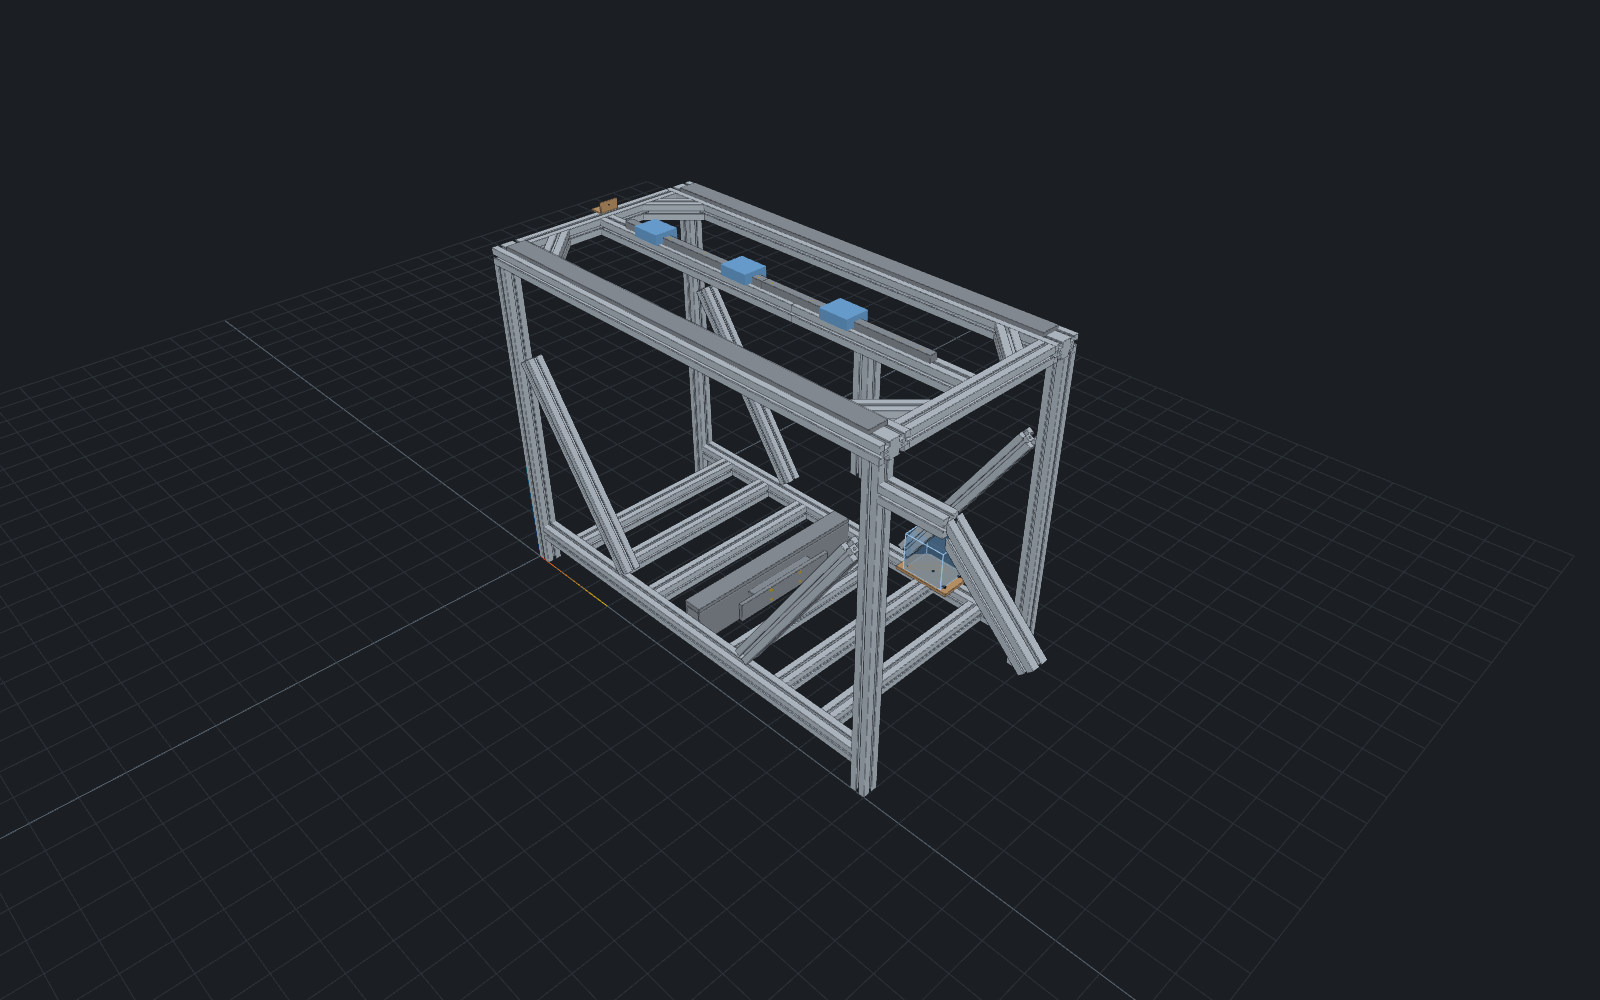
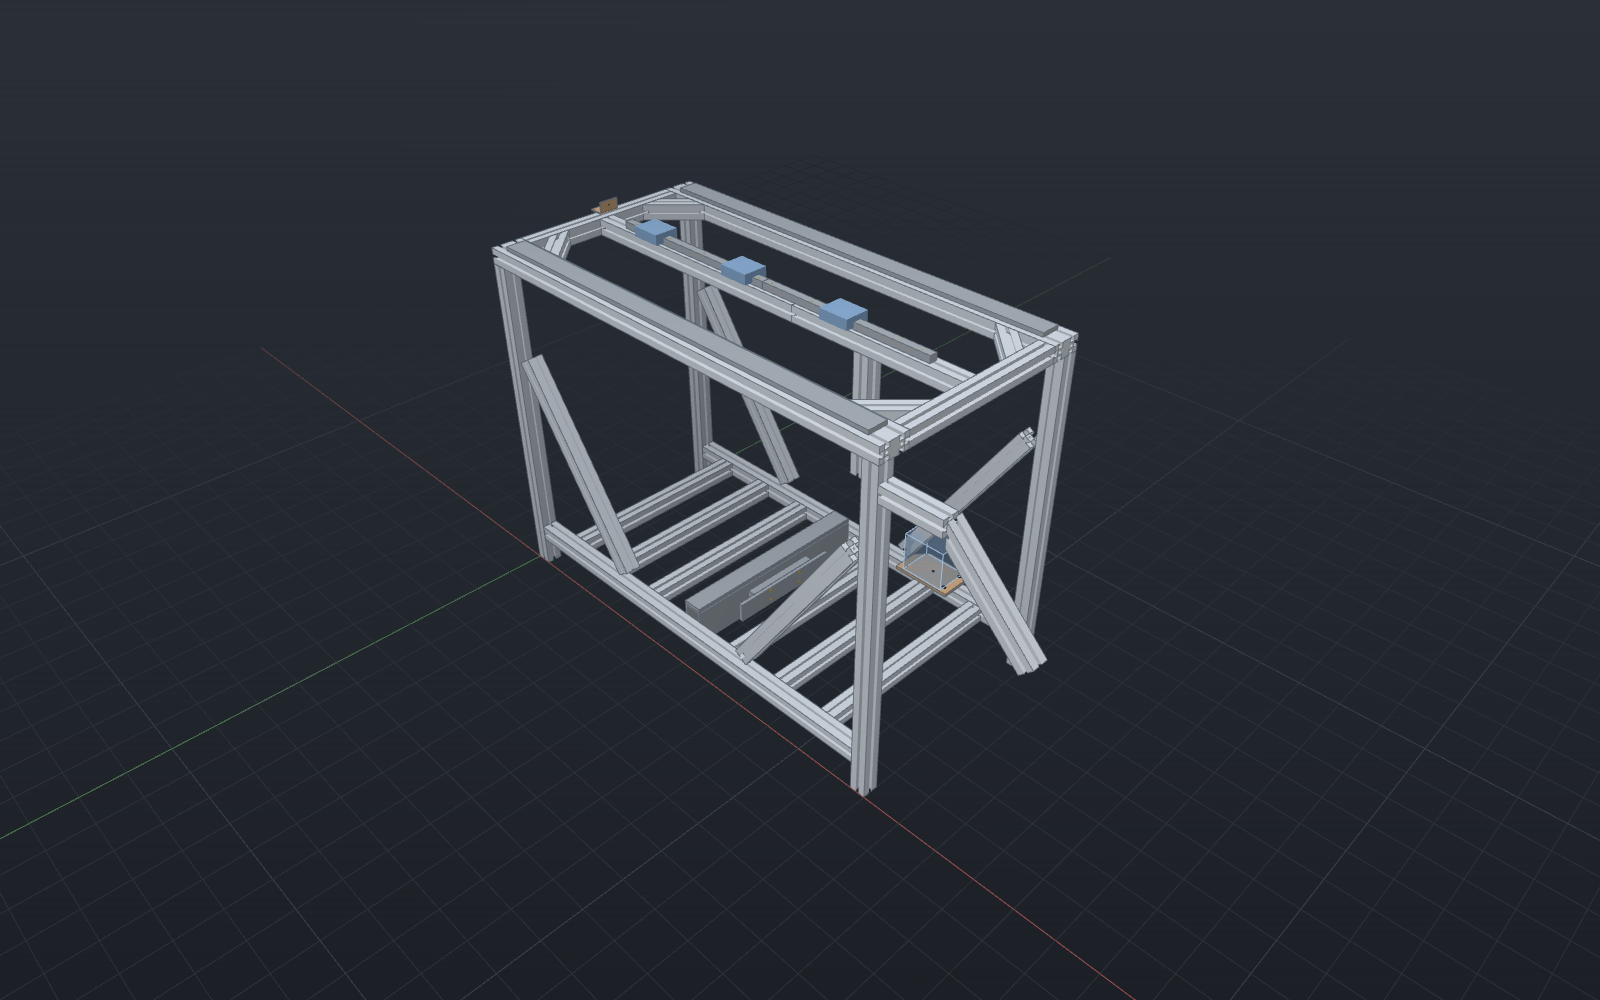
UX S3.13: measurements, the README's picture, screenshots and S3's decisions
s3-decisions.md records the 3D view's decisions with what was measured: frame time before and
after on the cart and a 1,000-bar lattice, on SwiftShader and an M1 Max; the hover pick's cost;
the GLB unchanged byte for byte; the bundle's growth. contracts.md lists S3's contract changes,
with the two ViewTheme fields C's spec replaces and the cross-edits in S4's files.
docs/images/cart-iso.png is rendered again by alukit snapshot; eight before and after
screenshots under docs/ux/img/s3.

Changed region(s): [[0.3125, 0.186, 0.6875, 0.806]]

diff --git a/docs/ux/s3-decisions.md b/docs/ux/s3-decisions.md
@@ -4,6 +4,24 @@
 and C's [rendering spec](visual-design.md#5-the-3d-view-rendering-spec). Labels as in the plan:
 **measured** (run), **read** (from the code that runs), **inferred**.*
 
+## Done
+
+| Task | What | Where |
+|---|---|---|
+| S3.1 | `polygonOffset` on every body; the selection tint that keeps shading, its outline and x-ray; sky and key lights, low ambient, fog, the gradient background; edge colour by body lightness | `src/viewer/{look,scene}.ts` |
+| S3.2 | Hover in Select (one pick per frame, the pale tint, a label by the pointer); `setHover` from rows and chips; a selected bar's label | `scene.ts`, `viewport/{Overlays.tsx,words.ts}` |
+| S3.3 | Outline and detail edges, the zoom ramp, orthographic keeps the detail; cut faces' own material; `angledGeometry` keeps its groups | `src/mesh/bars.ts`, `scene.ts` |
+| S3.4 | Corners (first batch) | `src/ui/corners.ts` |
+| S3.5 | Joint markers; hover and click name `corner:<key>`; the Joints toggle | `src/viewer/markers.ts`, `scene.ts` |
+| S3.6 | Targets; Show frames, pulses, ghosts, and its callout steps through the targets | `src/ui/targets.ts`, `Overlays.tsx` |
+| S3.7 | Problem badges and the Problems toggle | `markers.ts`, `words.ts` |
+| S3.8 | Snap glyph shapes, the cyan preview and picks, `setLabel` | `src/viewer/{overlay,labels}.ts` |
+| S3.9 | The ground sized to the model, the axes across it, the gizmo | `src/viewer/ground.ts`, `Overlays.tsx` |
+| S3.10 | Colour by item and its legend | `scene.ts`, `Overlays.tsx` |
+| S3.11 | The view controls' three groups with S4's icons; the tool rail | `viewport/{ViewControls,Viewport}.tsx`, `viewport.css` |
+| S3.12 | The light theme in the viewport | `tokens.ts` (S4's values), `look.ts` |
+| S3.13 | Measurements, `docs/images/cart-iso.png`, screenshots, this note | below |
+
 ## Corners (S3.4)
 
 1. **A corner follows the check's rules, so a marker and the `unconnected` warning agree.** Ends
@@ -30,3 +48,202 @@ and C's [rendering spec](visual-design.md#5-the-3d-view-rendering-spec). Labels 
 5. **Measured on the cart:** 36 corners, all joined, every one checked against the fixture's
    coordinates. Grouping and the line test index points and bars in 250 mm cells, so a 1,000-bar
    model is not quadratic.
+
+## Rendering (S3.1, S3.3, S3.12)
+
+6. **C's values, in the tokens.** Every number of C §5.1 to §5.3 is a `ViewTheme` field with its
+   value in `tokens.ts`; the viewer holds only the mixing shares (`MIX` in `look.ts`: selected 78 %,
+   hover 45 %, ghost 72 %) and the ghost's edge opacities. The background is one gradient texture
+   (no pass); the fog is linear, near = d − 0.6 r, far = near + 4 r, in a colour between the
+   background's stops (a unit test holds that), so the back of the frame recedes into the
+   background rather than into a different grey.
+7. **Outline and detail edges come from the section, once per section.** `sectionEdgeSets` keeps
+   as outline the end rings and the lines along the bar at the convex hull's vertices that are
+   creases (over 30°) or where a flat outer face ends on the section's box; every other crease
+   (slot lips, the core's chamber, holes) is detail. A rounded box therefore gets its eight
+   silhouette lines, a T-slot profile its four corners. **Measured** on the cart: 2,462 outline
+   and 2,990 detail segments of 5,452. Detail fades in from 0 to 0.5 as a 40 mm face grows from
+   24 to 64 px (one uniform a frame); orthographic views keep it at 0.6, today's look, as C's
+   Ortho row asks until R13.
+8. **A dark body gets light edges.** A body under 15 % relative luminance (black anodised) takes
+   `edge.onDark` (`#9AA3AD`); others the mid-tone. **Measured** in view.spec: a black b9's
+   underside edge stands at 3:1 or more against the background below it, from the front, in
+   orthographic.
+9. **Colours change in place.** Each bar's edges are a range of its section's merged buffer, with
+   RGBA vertex colours, so selection, hover, ghosting and colour by item rewrite only the changed
+   bars' ranges (`addUpdateRange`); past 64 changed bars a paint uploads the whole buffer. Bodies
+   keep their instanced colours. Nothing is rebuilt for a state.
+10. **The export does not move.** The GLB writer keeps `src/mesh/style.ts`'s palette and ignores
+    the geometry groups `angledGeometry` now keeps. **Measured**: the cart's GLB from main and
+    from this branch have the same SHA-256 (`aa969a01…`, 206,736 bytes); `glb.test` passes.
+11. **The light theme** uses S4's light values (bodies, edges, the overlay) with S3's new roles
+    beside them: a light fog `#E2E6EA`, a white sky over a warm grey ground, metre lines
+    `#ADB5BE` on S4's `#C9D0D8` lines. On the light ground a black profile's body carries its
+    silhouette, so the 3:1 rule there is checked on the body or its edge, whichever stands out
+    more (`theme.test.ts`).
+
+## Selection, hover and Show (S3.1, S3.2, S3.6)
+
+12. **A selection cannot hide.** Its bodies lerp 78 % toward `sel` (shading kept), its outline
+    edges turn `#8A4A00`, and the same outline is drawn again in `sel` at 45 % with the depth test
+    off. **Measured** in view.spec: from the top, b9 under the top rail shows over 200 amber
+    pixels inside its box once selected and none before, while the middle of the bar on top
+    stays unselected.
+13. **Hover picks once a frame, markers first.** The last pointer position is picked in the next
+    frame, not on every event: joint markers within 9 px of the pointer win (they sit inside
+    bars), then bodies by the raycast. The result is reported only when it changes, so
+    `focus.hover` does not churn. A tool armed or a button down clears it. Rows and chips hover
+    through `focus.hover`; the viewport tints the bodies their refs stand for
+    (`resolveTargets`), so an item's row lights every bar of that item.
+14. **Show keeps the direction.** `fitBox` moves the target and the distance only; the camera's
+    direction is the same to three decimals (view.spec). It pulses the targets three times in a
+    second, and ghosts the rest 72 % toward the fog with their edges at 18 % and 12 %, the joint
+    markers and badges fading with them, when it shows a problem (B §5.3: "others dimmed" until
+    Esc) or its caller asks (`isolate`: the legend). A Show without either (a toast's, a chip's)
+    frames and pulses only. The callout sits at the first target's point, steps "◀ n of m ▶"
+    through the targets (each step frames and pulses its own), and Esc or × leaves it. It carries
+    the problem's row (S4's compact `ProblemRow`, with its fixes) when S4's `problemList` holds
+    the problem; until S2.6 serves the problems that list is the check's, so a Show from an order
+    reason (O1) names its refs instead of the row. **Measured** in view.spec: Show on O1 puts the
+    camera's target in c35's box, and leaving it brightens over 2,000 pixels while almost none
+    darken.
+15. **Words.** The hover label reads `b2  TS40  860.00 mm` (cut length as `format.ts`'s `mm`
+    writes it, two decimals, where C's example shows one); a connection gives its glyph and type
+    (`c23  ⊕ face`), a corner its connections, its through bar and its state. The selection label
+    reads `153.14 mm  45.00° · 45.00°`. The hover label shows only for what the 3D view hovers,
+    not for a row.
+16. **What a ref names and what draws it are two lists.** `resolveTargets` gives `ids`, the
+    entities the refs name, and `bodies`, what draws them. Show selects the ids, so a Show on a
+    connection selects the connection (S2's show.spec: "Show on c35's reason selects c35") and
+    the inspector can point at its field (B §5.3, step 5), while the scene frames, pulses and
+    keeps from the ghost its fasteners and bars, and badges its bars. With one list, the
+    selection took the bars too: S4's Problems sheet then showed "3 selected" for c21, and its
+    selection filter kept a connection's problem for any of its bars (**measured**: both S4
+    specs failed until the split).
+
+## Markers and badges (S3.5, S3.7, S3.8)
+
+17. **Markers are screen-sized points, lifted toward the eye.** A corner lies inside the bars
+    that meet there, so a depth-tested marker would be hidden by its own bars. Each glyph is drawn
+    twice: faint (28 %) with no depth test, so a corner behind the frame still shows where it is,
+    and whole, depth-tested after moving toward the eye by the largest section's diagonal plus
+    10 mm (at least 40 mm). In perspective the shader scales the point toward the eye, which
+    keeps its place on the screen; in orthographic it moves along the view axis. The textures are
+    drawn once into a canvas, 64 px, white where the point's colour tints them, with the dark ring.
+18. **Glyphs by meaning, colours by state.** Joints: joined a filled disc (`ready`), open a ring
+    (`warn`), failed a cross (`blocked`). Badges: the most severe problem per body, an octagon for
+    blocks and errors, a triangle for warnings; notes draw none; the body's outline takes the
+    badge's colour. They read S4's `problemList`: the served problems once S2.6 fills them, the
+    check's diagnostics until then (on the cart, the warnings on c21, c22 and c33 badge b9, b10,
+    b18 and the handle's b31 and b32: `words.test.ts`). Snap markers have C's shapes (square,
+    triangle, diamond, cross, ring, ⊕, dot); the line, pick and preview markers are the tool's
+    cyan, never amber (U42).
+19. **Hover and click on a marker name the corner** (`corner:<key>`), which the selection, the
+    outline (S2.5) and the corner inspector (S5.5) share.
+
+## Ground and gizmo (S3.9)
+
+20. **The ground fits the model**: 2.6 × the larger footprint side, rounded up to a metre (at
+    least a metre), 100 mm and 1 m lines on world multiples, fogged; the minor spacing grows
+    tenfold past 400 lines a side. World X and Y run across it at 70 %.
+21. **The gizmo is HTML over the canvas, not a second WebGL viewport**: no extra render pass, crisp
+    at any pixel ratio, and its six ends are real buttons (keyboard, a test's `getByRole`). It turns
+    with the camera each frame, the nearest end on top. Snapshot mode leaves it out with every
+    other overlay.
+
+## Colour by item, view controls (S3.10, S3.11)
+
+22. **Colour by item takes S4's swatches** (`swatches`, `ItemSwatch`): one table, so a profile has
+    the same colour in the BOM and the frame. A body whose item has no swatch takes
+    `body.neutral`. The legend lists the BOM's items in the BOM's order; an entry Shows what uses
+    the item with the rest dimmed. **Measured** in view.spec: the legend's entries equal the
+    BOM's items, and RHS-100x50x4 frames b18 with a slat beside it darker by more than a fifth.
+23. **The view controls** are three groups (view: four views, Orthographic, Fit; section; show:
+    Joints, Problems, Colour by item), each button S4's icon with its word beside it from
+    1440 px; the word is its label and its title says more. The projection is a toggle named for
+    what it turns on, pressed in orthographic (U58). The tool buttons are a column down the left
+    edge, so the bar is one row at 1280 px (**measured**, screenshot). S4's icon set had none for
+    the joints: S3 added `joints` (two bars and the filled marker).
+
+## Measurements (S3.13)
+
+24. **How measured.** Headless Chromium at 1280 × 800 serves each build on the same project;
+    the script orbits the camera with the mouse for two seconds (twice) and then sweeps the
+    pointer across the model without a button, recording `requestAnimationFrame` intervals (a
+    slow frame delays the next callback). Before is the build before S3 (S0's), after is this
+    branch, run back to back, three rounds on SwiftShader and two on the GPU; the figures are the
+    medians of the runs' mean intervals. The machine was loaded by other agents (load average 13
+    to 26 on 10 cores during the SwiftShader runs), so the SwiftShader figures are relative.
+    `__alukit.frames()` gives the after build's CPU time inside `renderer.render` and in hover
+    picks. The 1,000-bar model is a lattice of 992 bars on a 400 mm node grid plus 8 rails, with
+    no connections (384 open corners).
+
+| Frame interval, ms (mean; p90) | Cart, before | Cart, after | 1,000 bars, before | 1,000 bars, after |
+|---|---|---|---|---|
+| SwiftShader, orbit | 18.5; 25.0 | 20.6; 33.3 | 273; 367 | 250; 308 |
+| SwiftShader, hover sweep | 16.7; 16.7 | 16.9; 16.7 | 20.8; 16.7 | 77.6; 250 |
+| GPU (Apple M1 Max, Metal), orbit | 16.7; 16.7 | 16.9; 16.7 | 16.7; 16.7 | 16.7; 16.7 |
+| GPU, hover sweep | 16.7; 16.7 | 16.7; 16.7 | 16.7; 16.7 | 16.7; 16.7 |
+
+25. **What the numbers say.** On the cart the new look costs about 2 ms more a frame on
+    SwiftShader (18.5 to 20.6 ms; inferred: the gradient, the two edge buffers, the markers), so
+    a frame there now often misses 60 Hz while orbiting, as one already did at p90 before. On
+    1,000 bars orbiting is faster than before (250 against 273 ms): zoomed out, the detail edges
+    (96,000 of 172,000 segments) fade to nothing and are not drawn (read). The hover pick
+    itself is cheap: **0.14 ms** on the cart and **0.43 ms** on 1,000 bars (CPU, per pick, one a
+    frame at most). What a hover costs on SwiftShader at 1,000 bars is the frame it redraws when
+    the bar under the pointer changes (~250 ms there); between changes nothing is drawn. CPU time
+    in `renderer.render` is 2 to 4 ms a frame in both models. On the GPU every case holds 60 Hz
+    (16.7 ms, the display's interval) before and after, the 1,000 bars included; the after build
+    spends 0.25 to 1.9 ms of CPU a frame in `renderer.render` and 0.2 to 0.6 ms a hover pick.
+26. **The bundle** grows by 36 kB (964.7 kB on main, 1,000.9 kB here; gzip 257.3 to 270.5 kB),
+    which crosses Vite's 1,000 kB advice; the build still passes. Splitting the viewer's code into
+    its own chunk is a later change, not S3's.
+
+## Tests
+
+- view.spec adds seven tests: hover (b2 sets `hovered()`, tints, names its cut, clears), x-ray,
+  the black profile's edge contrast, the unconnected rectangle (4 open markers, `corners()` equal
+  to `cornersOf` of the served model, none drawn with Joints off, a hovered corner), Show on the
+  order's O1 (c35: the camera's target in its box, the direction kept, the rest dimmed until
+  Esc), colour by item (the legend equals the BOM's items; an entry frames b18 and dims the
+  rest), and the gizmo. The pixel tests turn the problem badges off, whose warning tint is near
+  the selection's amber and the open ring's yellow. The projection is checked by `aria-pressed`; the section test
+  moves the pointer off the viewport before its last picture.
+- The background is a gradient, so "the cart draws its bars" and `png.ts`'s `coverage`
+  (snapshot.spec) count a pixel as drawn when it differs from its row's commonest colour; the
+  assertions are the same.
+- Unit tests: `theme.test.ts` (the export's palette, contrast, fog), `words.test.ts` (labels,
+  legend, badges with the problem fixture), the edge sets in `mesh.test.ts`, the cart's targets.
+
+## Not in this round
+
+- C's R13 (a screen-space outline pass), as the brief says; orthographic views keep today's
+  detail edges meanwhile (C §5.2).
+- Section caps (stencil caps with a hatch), the placeholder's hatch and dashed outline, and the
+  footprint shadow: C's spec rows that no S3 task lists.
+- The tools still send `point` for every snap; S5 maps stations to `face` and `datum`.
+
+## Cross-edits in files another stream owns
+
+- `src/ui/theme/tokens.ts` (S4): the view's values and roles (contracts.md, S3 changes).
+- `src/ui/theme/tokens.test.ts` (S4): drops the assertion that the dark view's bodies are the
+  export's; `theme.test.ts` holds the export's palette instead.
+- `src/ui/icons/Icons.tsx` (S4): adds `joints`.
+- `tests/e2e/png.ts` (shared): `coverage` by row.
+
+## Screenshots
+
+The cart at 1600 × 1000, SwiftShader, the viewport only. Before is main before S3 (S0's look);
+the others are this branch.
+
+| | |
+|---|---|
+| ![Before: the cart, iso](img/s3/before-iso.png) | ![After: gradient, sky and key light, fog, outline and detail edges, joint markers, the check's warnings as badges, the ground fitted with its axes, the gizmo, the view controls with icons and the tool rail](img/s3/after-iso.png) |
+| Before: flat ground, a fixed sun, one edge colour, a 4 m grid | After: the same view; the yellow bars are the check's three warnings |
+| ![Before: a close-up](img/s3/before-closeup.png) | ![After: the close-up, cut faces lighter, slot detail at full zoom, edges mid-tone](img/s3/after-closeup.png) |
+| Before: a close-up | After: the slots' detail edges fade in with zoom |
+| ![Hover: b2 tinted pale amber, its label by the pointer](img/s3/after-hover.png) | ![X-ray: b9 selected under the top rail, from the top, orthographic, with its label](img/s3/after-xray-top.png) |
+| Hover: what a click would select, named | A selection shows through what covers it |
+| ![Show: colour by item, the legend, the flat bars shown and the rest dimmed, the callout](img/s3/after-show-item.png) | ![The light theme](img/s3/light-iso.png) |
+| Show from the legend: framed, the rest dimmed | The light theme (S3.12) |

diff --git a/docs/ux/contracts.md b/docs/ux/contracts.md
@@ -148,3 +148,63 @@ which S0 listed as the sheets' present set and which the plan's own grouping (D-
 - **`problems/source.ts`**: `problemList` and `problemCounts` read `store.problems`, with the
   check's diagnostics standing in until S2.6 fills it (see s4-decisions.md for what to delete).
 - **Fonts** are files in `src/ui/fonts` with `OFL.txt`, not a dependency (D-UX-22 said `@fontsource`).
+
+## S3 changes
+
+S3 ([s3-decisions.md](s3-decisions.md)) changed these contracts. Each adds, except two fields of
+`ViewTheme`, which C's rendering spec replaces.
+
+- **`ViewTheme`** (`src/viewer/theme.ts`). Replaced: `lights.fill` by `lights.sky` (a hemisphere
+  light, with `ground`), and `grid.centre` by `grid.major`, `grid.axis` and `grid.axisOpacity`
+  (metre lines, and the world X and Y across the ground), because C §5.1 drops the fill light and
+  the centre lines; a field kept for nothing would still need a value. Added: `fog`, `cut` (the
+  cut faces' factors), `body.neutral`, `edge.onDark`, `edge.outline`, `edge.detail`,
+  `edge.selected`, `edge.xray`, `overlay.marker.face`, `overlay.marker.datum`, `overlay.ring`.
+  Only `viewTheme` builds one.
+- **`tokens.ts`** (S4's file, cross-edited): `VIEW_DARK` holds C's dark values (§5.1 to §5.3);
+  `VIEW_LIGHT` keeps S4's light values and adds S3's roles (light fog, lights, metre lines,
+  `neutral` as the light steel). The line, pick and preview markers take the `tool` token in both
+  themes, the grid marker `text-3` and the free one `text-1` (U42: amber is the selection's
+  alone). S4 may retune any value. `tokens.test.ts` no longer holds the dark view's bodies to the
+  export's (they are C's now); `src/viewer/theme.test.ts` holds the export's palette (D-UX-24)
+  and the view's contrast rules.
+- **`Icons.tsx`** (S4's file, cross-edited): adds `joints`, for the Joints toggle.
+- **`MarkerKind`** (`src/viewer/overlay.ts`) adds `face` (a triangle: a face's centre) and
+  `datum` (⊕: a part's origin or datum). Each kind has its shape (C §5.3): `point` a square (a
+  node or a bar's end), `line` a diamond, `grid` a cross, `free` a ring, `pick` a dot. The tools
+  still send `point` for every station; S5 maps a face centre to `face` and a part's origin to
+  `datum`.
+- **The viewer** (`src/viewer/scene.ts`): S0's no-ops are built. It adds `camera()`
+  (`CameraState`: position, target, right, up, in the world), `renderStats()` (`RenderStats`:
+  frames, render ms, hover picks and their ms) and `CORNER_PREFIX` (`corner:`; also in
+  `markers.ts`). `ViewerStats` adds `outlineSegments`, `detailSegments`, `joints` (joined, open,
+  failed) and `badges`. `fitBox(box)` takes a world box and keeps the view's direction.
+  `onHover` reports a body's id or `corner:<key>`, once per change, in Select with no tool armed.
+  `setGhost` fades the joint markers and badges with the bodies.
+- **`resolveTargets(model, refs, ctx?)`** (`targets.ts`): S3.6's refs (ends, connections, runs,
+  patterns, corners, items, open items, suppliers given `ctx.order`); no refs is the whole model.
+  `Targets` adds `bodies`. `ids` stay what S0's were, the entities the refs name (what Show
+  selects and a selection filter matches): a connection is `c35`, a run `r1`, a corner
+  `corner:<key>`; a ref that names no entity (an item, an open item, a supplier) gives the
+  entities that stand for it. `bodies` are what draws them in the scene (a connection's
+  fasteners under its id and its bars, a run's bars, a corner's bars), which the view tints,
+  pulses, keeps out of the ghost, badges and frames. `boxOf(model, ids, points)` is exported.
+- **`corners.ts`**: `cornersOf` is built; adds `cornerKey(ref)` and `pointKey(p)`.
+- **The viewport**: signals `showJoints`, `showProblems`, `colourBy` (`"finish" | "item"`) and
+  `drawnCorners` (`viewport/viewer.ts`). The `left` slot is a column down the viewport's left
+  edge (`.tool-rail`, `data-testid="tool-rail"`); the view controls sit at the top right
+  (`.toolbar`, `data-testid="toolbar"`, as before), in three groups with S4's icons. Esc leaves
+  Show before it clears the selection (`onKey("app", …, 10)`). A Show dims the rest when it
+  shows a problem or asks to (`ghostsRest(shown)`: B §5.3 dims for every problem; `isolate`
+  stays the caller's way to ask for it otherwise). The badges and the callout's row read S4's
+  `problemList`, so they follow the check until S2.6 serves the problems. Snapshot mode draws no
+  hover, markers, badges or labels.
+- **The hook** adds `corners()`, `camera()` and `frames()`. `hovered()` stays S4's.
+- **`src/mesh/bars.ts`** adds `sectionEdgeSets(section)` (outline and detail edges);
+  `angledGeometry` keeps the extrusion's two groups, which the GLB writer ignores, so its bytes
+  do not change.
+- **`src/ui/testing.ts`** adds `viewOf(dir, ...batches)`: the served view model of a scratch
+  project after command batches.
+- **Tests**: `tests/e2e/png.ts`'s `coverage` counts the pixels off their row's commonest colour,
+  since the background is a gradient; snapshot.spec is otherwise unchanged. view.spec checks the
+  projection by `aria-pressed` (§5.10).
